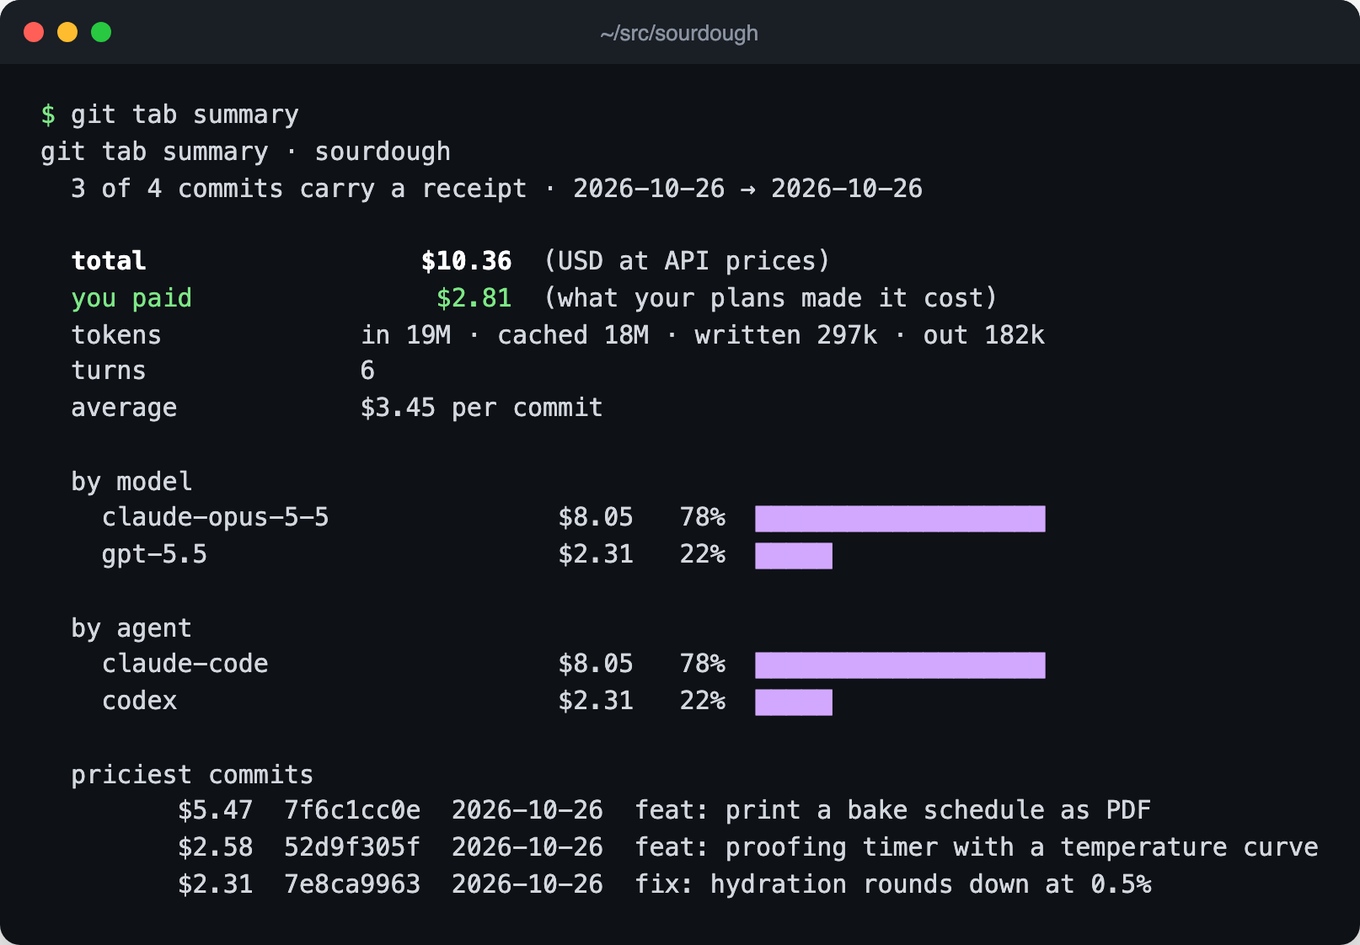
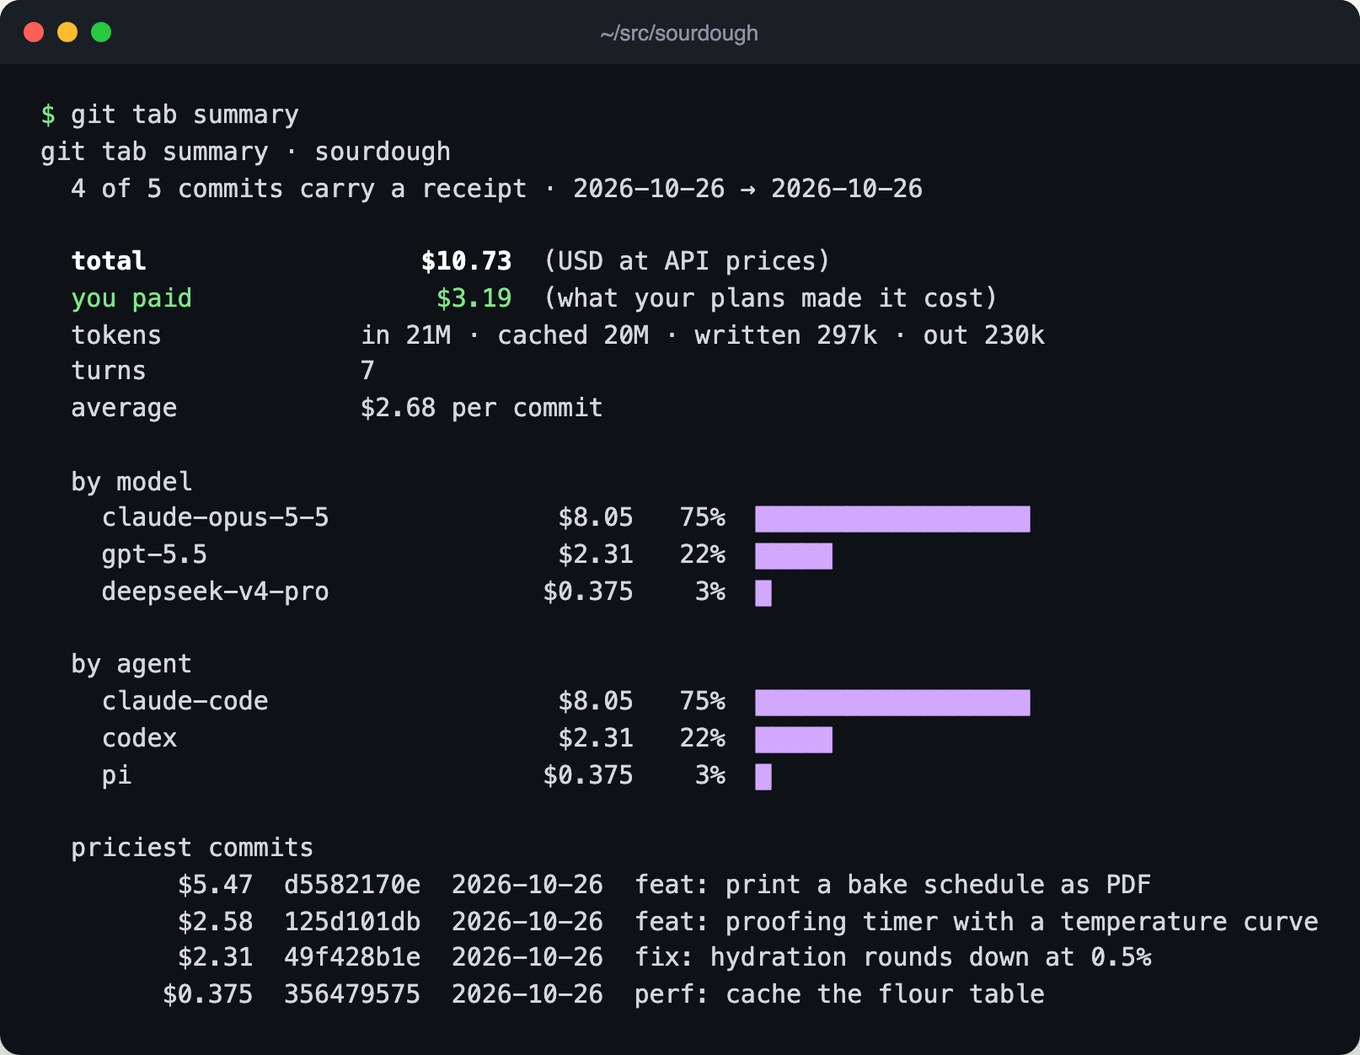
Match plans by the provider before the maker; settle only what a scan read
A deepseek key no longer pays for DeepSeek models that OpenCode Go
serves. When an agent's logs cannot be read, a commit settles only the
sessions it billed. doctor counts .db and .sqlite logs. The README
images now include a pi commit, and the timing claim is measured.

 ____________________________________
|                                    |
|         A I   R E C E I P T        |
|     git-tab · USD at API prices    |
|        2026-10-26 17:06 +08        |
|                                    |
| claude-opus-5-5              $2.41 |
|   in 6.4M  cached 6.3M             |
|   out 22k  written 88k  x27        |
| - - - - - - - - - - - - - - - - -  |
| SUBTOTAL                     $2.41 |
| PLAN DISCOUNT 94%           -$2.26 |
| YOU PAID                    $0.151 |
| 27 calls · 7m busy                 |
| ≈ 0.5 coffees / 0.7 pizza slices   |
| - - - - - - - - - - - - - - - - -  |
| TAB SO FAR · 8 commits      $49.34 |
|   paid                      $33.86 |
|                                    |
|   || |  || ||||| | |||   || |||||  |
|        THANK YOU, COME AGAIN       |
|____________________________________|
 \/\/\/\/\/\/\/\/\/\/\/\/\/\/\/\/\/\/

AI-Cost: $2.41 (api-equiv)
AI-Cost-Paid: $0.151 (6.25% of api-equiv)
AI-Tokens: in=6.4M cached=6.3M written=88k out=22k
AI-Model: claude-opus-5-5
AI-Agent: claude-code
AI-Session: claude-code/bc659162
AI-Cost-Schema: 1

diff --git a/e2e/agents_test.go b/e2e/agents_test.go
@@ -7,6 +7,7 @@ import (
 	"bytes"
 	"database/sql"
 	"encoding/json"
+	"fmt"
 	"os"
 	"path/filepath"
 	"strings"
@@ -436,4 +437,42 @@ func TestDsh(t *testing.T) {
 	wantTrailer(t, w, "AI-Cost", "$0.037 (api-equiv)")
 	wantTrailer(t, w, "AI-Model", "deepseek-v4-flash")
 	wantTrailer(t, w, "AI-Turns", "1")
+}
+
+// An agent whose logs cannot be read, such as a damaged or locked
+// database, loses nothing: the commit settles only what it did read, and
+// the rest goes on a receipt once the logs can be read again.
+func TestUnreadableLogs(t *testing.T) {
+	w := newWorld(t)
+	w.tab("install")
+	path := filepath.Join(w.home, ".local", "share", "opencode", "opencode.db")
+	os.MkdirAll(filepath.Dir(path), 0o755)
+	os.WriteFile(path, []byte("not a database"), 0o644)
+	now := time.Now()
+	w.assistant("S1", w.repo, now.Add(-2*time.Minute), cc{id: "m1", req: "r1", in: 10000, out: 1000}, 1)
+	w.commit(nil, "-m", "while OpenCode's database is damaged")
+	wantTrailer(t, w, "AI-Cost", "$0.060 (api-equiv)")
+
+	// Repaired, it holds a call made before that commit.
+	os.Remove(path)
+	db, err := sql.Open("sqlite", path)
+	if err != nil {
+		t.Fatal(err)
+	}
+	at := now.Add(-3 * time.Minute).UnixMilli()
+	data, _ := json.Marshal(map[string]any{"time": map[string]any{"created": at, "completed": at + 900},
+		"model":  map[string]any{"id": "claude-opus-5-5", "providerID": "anthropic"},
+		"tokens": map[string]any{"input": 10000, "output": 1000, "reasoning": 0, "cache": map[string]any{"read": 0, "write": 0}}})
+	for _, q := range []string{openCodeSchema,
+		`INSERT INTO session_v2 (id, project_id, slug, directory, version, time_created, time_updated) VALUES ('ses_1', 'global', 's', '` + w.repo + `', '2.1.4', ` + fmt.Sprint(at) + `, ` + fmt.Sprint(at) + `)`,
+		`INSERT INTO session_message (id, session_id, type, seq, time_created, time_updated, data) VALUES ('msg_1', 'ses_1', 'assistant', 1, ` + fmt.Sprint(at) + `, ` + fmt.Sprint(at) + `, '` + string(data) + `')`,
+	} {
+		if _, err := db.Exec(q); err != nil {
+			t.Fatalf("%s: %v", q, err)
+		}
+	}
+	db.Close()
+	w.commit(nil, "-m", "after it is repaired")
+	wantTrailer(t, w, "AI-Cost", "$0.060 (api-equiv)")
+	wantTrailer(t, w, "AI-Agent", "opencode")
 }

diff --git a/internal/plan/plan.go b/internal/plan/plan.go
@@ -24,6 +24,7 @@ package plan
 import (
 	"errors"
 	"fmt"
+	"slices"
 	"sort"
 	"strconv"
 	"strings"
@@ -180,27 +181,23 @@ func Selectors(v string) []string {
 }
 
 // Keys are what an event can be paid for under, most specific first. Who
-// bills a call (the provider, else the model's maker) comes before the
-// agent alone: a plan for claude-code does not pay for the DeepSeek calls
-// a gateway routes it to when a deepseek plan does.
+// bills a call comes before the agent alone: the provider the log names,
+// else the model's maker. A plan for claude-code does not pay for the
+// DeepSeek calls a gateway routes it to when a deepseek plan exists, and a
+// deepseek key does not pay for DeepSeek models OpenCode Go serves.
 func Keys(e agents.Event) []string {
-	maker := price.Maker(e.Model)
-	route := strings.ToLower(e.Provider)
+	payer := strings.ToLower(e.Provider)
+	if payer == "" {
+		payer = price.Maker(e.Model)
+	}
 	var out []string
 	add := func(s string) {
-		if s != "" && s != "/" && !strings.HasPrefix(s, "/") && !strings.HasSuffix(s, "/") {
-			for _, o := range out {
-				if o == s {
-					return
-				}
-			}
+		if s != "" && !strings.HasPrefix(s, "/") && !strings.HasSuffix(s, "/") && !slices.Contains(out, s) {
 			out = append(out, s)
 		}
 	}
-	add(e.Agent + "/" + route)
-	add(e.Agent + "/" + maker)
-	add(route)
-	add(maker)
+	add(e.Agent + "/" + payer)
+	add(payer)
 	add(e.Agent)
 	return out
 }

diff --git a/internal/stamp/stamp.go b/internal/stamp/stamp.go
@@ -169,6 +169,10 @@ type Window struct {
 	// such commit: a session whose log was copied here, by a handoff or a
 	// teleport, is already settled up to then.
 	Foreign map[string]time.Time
+	// Partial says an agent's logs could not be read (a locked database):
+	// the commit then settles only the threads it billed, and the unread
+	// usage waits for a later one.
+	Partial bool
 }
 
 // key names what the ledger settles separately: a thread, so that a
@@ -511,7 +515,7 @@ func (h *hook) stamp(p *ledger.Pending, msg string) (string, bool) {
 	}
 	// Work trees share the ledger, and a commit in one sees none of the
 	// usage in the others: it settles only the threads it billed.
-	if w.Scope != nil || h.repo.Linked() {
+	if w.Scope != nil || w.Partial || h.repo.Linked() {
 		p.Threads = threads
 	}
 	h.logf("stamped %s: calls=%d turns=%d template=%s scope=%s", render.USD(b.Cost), b.Requests, b.Turns, h.s.Template, w.Scope)
@@ -549,6 +553,7 @@ func (h *hook) bill(amend bool, scope *Scope) (*bill.Bill, Window, []string, err
 	for _, e := range errs {
 		h.logf("%v", e)
 	}
+	w.Partial = len(errs) > 0
 	cat := price.Load()
 	h.logf("%d events, prices %s %s, %d plans", len(events), cat.From, cat.Fetched.Format("2006-01-02"), len(h.s.Plans.Plans))
 	return bill.Build(events, cat, h.s.Plans, now), w, threads, nil

diff --git a/internal/cli/cli.go b/internal/cli/cli.go
@@ -331,7 +331,7 @@ func doctorCmd() int {
 		for _, root := range ad.Roots() {
 			n, newest := 0, time.Time{}
 			filepath.WalkDir(root, func(path string, d os.DirEntry, err error) error {
-				if err == nil && !d.IsDir() && (strings.HasSuffix(path, ".jsonl") || strings.HasSuffix(path, ".jsonl.zst")) {
+				if err == nil && !d.IsDir() && isLog(d.Name()) {
 					n++
 					if info, err := d.Info(); err == nil && info.ModTime().After(newest) {
 						newest = info.ModTime()
@@ -375,6 +375,16 @@ func doctorCmd() int {
 		}
 	}
 	return 0
+}
+
+// isLog says a file is one of the session logs or databases agents keep.
+func isLog(name string) bool {
+	for _, suf := range []string{".jsonl", ".jsonl.zst", ".jsonl.zstd", ".db", ".sqlite"} {
+		if strings.HasSuffix(name, suf) {
+			return true
+		}
+	}
+	return false
 }
 
 func count(n int, one string) string {

diff --git a/internal/agents/agents.go b/internal/agents/agents.go
@@ -1,8 +1,9 @@
 // Package agents reads coding-agent session logs into usage events.
 //
 // Each agent is an Adapter registered from its own file (claude.go,
-// codex.go). Supporting another agent means adding one file whose Adapter
-// turns that agent's local logs into Events; nothing else has to change.
+// codex.go, pi.go, opencode.go, dsh.go). Supporting another agent means
+// adding one file whose Adapter turns that agent's local logs into Events;
+// nothing else has to change.
 package agents
 
 import (

diff --git a/README.md b/README.md
@@ -7,11 +7,11 @@ Tokens, models and cost from Claude Code, Codex, pi, OpenCode and DeepSeek Harne
 
 <p align="center">
 <a href="LICENSE"><img alt="MIT license" src="https://img.shields.io/badge/license-MIT-blue"></a>
-<img alt="Go 1.25+" src="https://img.shields.io/badge/go-1.25%2B-00ADD8">
+<img alt="Go 1.26+" src="https://img.shields.io/badge/go-1.26%2B-00ADD8">
 <img alt="Git 2.54+ for one-command setup" src="https://img.shields.io/badge/git-2.54%2B-F05032">
 </p>
 
-<p align="center"><img src="docs/images/receipt-en.png" width="520" alt="git log -1 on a commit made by Claude Code: the message carries an AI receipt. claude-opus-5-5 cost $5.47 at API prices over 64 calls; on a $125 Claude Max plan worth $2,000 a month the user paid $0.342; the branch's tab is $10.36 over 3 commits. Below the receipt are AI-Cost, AI-Cost-Paid, AI-Tokens, AI-Model, AI-Agent, AI-Turns and AI-Session trailers."></p>
+<p align="center"><img src="docs/images/receipt-en.png" width="520" alt="git log -1 on a commit made by Claude Code: the message carries an AI receipt. claude-opus-5-5 cost $5.47 at API prices over 64 calls; on a $125 Claude Max plan worth $2,000 a month the user paid $0.342; the branch's tab is $10.73 over 4 commits, $3.19 paid. Below the receipt are AI-Cost, AI-Cost-Paid, AI-Tokens, AI-Model, AI-Agent, AI-Turns and AI-Session trailers."></p>
 
 ## Install
 
@@ -29,7 +29,7 @@ Uninstall with `curl -fsSL https://raw.githubusercontent.com/fish2lab/git-tab/ma
 
 ## What it does
 
-- **Bills each commit, never blocks one.** At commit time git-tab reads the agents' logs on your machine and prices every request since the last receipt at [models.dev](https://models.dev) rates: cache reads and writes, long-context tiers, Claude's fast mode, DeepSeek's peak hours. The hooks always exit 0 and add about 50 ms to a commit.
+- **Bills each commit, never blocks one.** At commit time git-tab reads the agents' logs on your machine and prices every request since the last receipt at [models.dev](https://models.dev) rates: cache reads and writes, long-context tiers, Claude's fast mode, DeepSeek's peak hours. The hooks always exit 0 and add 50 to 150 ms to a commit.
 - **Shows what you actually paid.** Tell it once that Claude Max costs you $125 a month for about $2,000 of API-priced usage, and Claude Code commits show 6.25% of the API price: SUBTOTAL, PLAN DISCOUNT, YOU PAID. A DeepSeek key at list price, a reseller at half price, a subscription measured from your own logs: [plans](docs/reference.md#plans-what-you-actually-pay).
 - **Bills the right session.** When an agent commits, only its own session is on the receipt; parallel agents, work trees and amends each get their own share. Commits you type yourself pick up every session in the repository.
 - **Keeps a running tab.** Each receipt ends with the total of every receipt in the branch's history, commits from teammates and other machines included.
@@ -38,7 +38,7 @@ Uninstall with `curl -fsSL https://raw.githubusercontent.com/fish2lab/git-tab/ma
 
 ## Read the bill
 
-<p align="center"><img src="docs/images/summary.png" width="560" alt="git tab summary for a project: 3 of 4 commits carry a receipt, $10.36 at API prices, $2.81 paid, split by model (claude-opus-5-5 78%, gpt-5.5 22%) and by agent (claude-code, codex), with the priciest commits listed."></p>
+<p align="center"><img src="docs/images/summary.png" width="560" alt="git tab summary for a project: 4 of 5 commits carry a receipt, $10.73 at API prices, $3.19 paid, split by model (claude-opus-5-5 75%, gpt-5.5 22%, deepseek-v4-pro 3%) and by agent (claude-code, codex, pi), with the priciest commits listed."></p>
 
 | command | |
 |---|---|
@@ -73,7 +73,7 @@ Prefer one line? `git config --global tab.template minimal`. Every format, setti
 | Codex | `CODEX_THREAD_ID` |
 | pi | `PI_SESSION_ID` |
 | OpenCode | `OPENCODE_SESSION_ID` |
-| DeepSeek Harness | `GIT_TAB_SESSION=dsh:<id>`, or the working directory |
+| DeepSeek Harness, omp, ZCode | `GIT_TAB_SESSION=<agent>:<id>`, or the working directory |
 
 Any other agent is one Go file: [teach it another agent](docs/reference.md#teach-it-another-agent).
 
@@ -85,7 +85,7 @@ Any other agent is one Go file: [teach it another agent](docs/reference.md#teach
 
 **I pay a flat subscription. Is the API price meaningful?** It is what the same work would cost without one. With a [plan](docs/reference.md#plans-what-you-actually-pay), each receipt also shows your share of the subscription.
 
-**Will it slow down or break my commits?** A commit takes about 50 ms longer. A hook that fails or runs past 4 seconds is dropped and the commit goes through without a receipt.
+**Will it slow down or break my commits?** A commit takes 50 to 150 ms longer, depending on how long the session's log is. A hook that fails or runs past 4 seconds is dropped and the commit goes through without a receipt.
 
 **Does anything leave my machine?** Only the weekly download of the public price table.
 

diff --git a/README.zh-CN.md b/README.zh-CN.md
@@ -7,11 +7,11 @@
 
 <p align="center">
 <a href="LICENSE"><img alt="MIT license" src="https://img.shields.io/badge/license-MIT-blue"></a>
-<img alt="Go 1.25+" src="https://img.shields.io/badge/go-1.25%2B-00ADD8">
+<img alt="Go 1.26+" src="https://img.shields.io/badge/go-1.26%2B-00ADD8">
 <img alt="一条命令装好需要 Git 2.54+" src="https://img.shields.io/badge/git-2.54%2B-F05032">
 </p>
 
-<p align="center"><img src="docs/images/receipt-zh.png" width="520" alt="git log -1 显示一个由 Claude Code 提交的 commit，message 里带着 AI 小票：claude-opus-5-5 按 API 官价 64 次调用共 $5.47；用户的 Claude Max 每月 $125、折合 API 用量 $2,000，实付 $0.342；这个分支累计 3 个 commit 共 $10.36。小票下方是 AI-Cost、AI-Cost-Paid、AI-Tokens、AI-Model、AI-Agent、AI-Turns、AI-Session 等 trailer。"></p>
+<p align="center"><img src="docs/images/receipt-zh.png" width="520" alt="git log -1 显示一个由 Claude Code 提交的 commit，message 里带着 AI 小票：claude-opus-5-5 按 API 官价 64 次调用共 $5.47；用户的 Claude Max 每月 $125、折合 API 用量 $2,000，实付 $0.342；这个分支累计 4 个 commit 共 $10.73，实付 $3.19。小票下方是 AI-Cost、AI-Cost-Paid、AI-Tokens、AI-Model、AI-Agent、AI-Turns、AI-Session 等 trailer。"></p>
 
 ## 安装
 
@@ -29,7 +29,7 @@ curl -fsSL https://raw.githubusercontent.com/fish2lab/git-tab/main/install.sh | 
 
 ## 它做什么
 
-- **每个 commit 记账，从不拦 commit。** 提交时读取本机 agent 日志，把上一张小票之后的每次请求按 [models.dev](https://models.dev) 的价格逐条计价：缓存读写分开算，长上下文分档、Claude 快速模式、DeepSeek 高峰时段双倍都算进去。钩子永远返回 0，每次 commit 多花约 50 毫秒。
+- **每个 commit 记账，从不拦 commit。** 提交时读取本机 agent 日志，把上一张小票之后的每次请求按 [models.dev](https://models.dev) 的价格逐条计价：缓存读写分开算，长上下文分档、Claude 快速模式、DeepSeek 高峰时段双倍都算进去。钩子永远返回 0，每次 commit 多花 50 到 150 毫秒。
 - **算出你实际付了多少。** 告诉它一次「Claude Max 每月 $125，大约用掉 $2,000 的 API 等价额度」，之后 Claude Code 的 commit 就按 API 价的 6.25% 记实付，小票上列出 SUBTOTAL、PLAN DISCOUNT、YOU PAID 三行。DeepSeek 官方 key 按原价、中转站打五折、订阅额度按本机日志自动测算，都可以登记，见[订阅与实付](docs/reference.md#plans-what-you-actually-pay)。
 - **账记在对的会话上。** agent 自己 commit 时，小票只算它这个会话；并行的多个 agent、多个 worktree、`--amend` 各算各的。你手动 commit 时，仓库里所有会话的用量合在一张小票上。
 - **小票底部有累计总额。** 每张小票最后一行是当前分支历史里所有小票的合计，队友和其他机器上的 commit 也算在内。
@@ -38,7 +38,7 @@ curl -fsSL https://raw.githubusercontent.com/fish2lab/git-tab/main/install.sh | 
 
 ## 看账单
 
-<p align="center"><img src="docs/images/summary.png" width="560" alt="git tab summary：4 个 commit 中 3 个带小票，按 API 价共 $10.36，实付 $2.81，按模型（claude-opus-5-5 78%、gpt-5.5 22%）和 agent（claude-code、codex）拆分，并列出最贵的几个 commit。"></p>
+<p align="center"><img src="docs/images/summary.png" width="560" alt="git tab summary：5 个 commit 中 4 个带小票，按 API 价共 $10.73，实付 $3.19，按模型（claude-opus-5-5 75%、gpt-5.5 22%、deepseek-v4-pro 3%）和 agent（claude-code、codex、pi）拆分，并列出最贵的几个 commit。"></p>
 
 | 命令 | |
 |---|---|
@@ -73,7 +73,7 @@ AI-Cost-Schema: 1
 | Codex | `CODEX_THREAD_ID` |
 | pi | `PI_SESSION_ID` |
 | OpenCode | `OPENCODE_SESSION_ID` |
-| DeepSeek Harness | `GIT_TAB_SESSION=dsh:<id>`，或按工作目录 |
+| DeepSeek Harness、omp、ZCode | `GIT_TAB_SESSION=<agent>:<id>`，或按工作目录 |
 
 再接一个 agent 只需要写一个 Go 文件，见[接入新 agent](docs/reference.md#teach-it-another-agent)。
 
@@ -85,7 +85,7 @@ AI-Cost-Schema: 1
 
 **我用的是包月订阅，API 价还有意义吗？** API 价是同样的活不订阅要花的钱。登记了[订阅](docs/reference.md#plans-what-you-actually-pay)之后，每张小票还会写出你这份订阅分摊下来的实付。
 
-**会拖慢或者搞坏我的 commit 吗？** 每次 commit 多约 50 毫秒。钩子出错或者跑超过 4 秒就会被放弃，commit 照常完成，只是没有小票。
+**会拖慢或者搞坏我的 commit 吗？** 每次 commit 多 50 到 150 毫秒，会话日志越长越慢。钩子出错或者跑超过 4 秒就会被放弃，commit 照常完成，只是没有小票。
 
 **会上传什么吗？** 只有每周下载一次公开的价格表。
 

diff --git a/docs/reference.md b/docs/reference.md
@@ -41,7 +41,7 @@ git tab plan                                                  # your plans, and 
 ```
 
 - **Terms**: `125/mo`, `1500/yr` (a subscription), `api` (list price), `x0.5` or `50%` (a share of list price).
-- **What it pays for**: an agent (`claude-code`), a provider the agent called (`deepseek`, `openrouter`, `opencode-go`) or the model's maker, or an agent and a provider joined by a slash (`pi/anthropic`). The most specific match wins, and a provider or maker match beats an agent-only one, so a `claude-code` subscription does not pay for DeepSeek calls a gateway routes Claude Code to when a `deepseek` plan exists.
+- **What it pays for**: an agent (`claude-code`), whoever bills the call (`deepseek`, `openrouter`, `opencode-go`), or both joined by a slash (`pi/anthropic`). Whoever bills is the provider the agent's log names, else the model's maker. The most specific match wins, and a match on who bills beats an agent-only one: a `claude-code` subscription does not pay for the DeepSeek calls a gateway routes Claude Code to when a `deepseek` plan exists, and a `deepseek` key does not pay for DeepSeek models served by OpenCode Go.
 - **A subscription's share** is its monthly fee over what a month of its usage is worth at API prices: $125 / $2,000 = 6.25%. Without `--worth`, git-tab measures the worth from the last 30 days of this machine's logs (scaled up when the logs are younger) and measures again weekly, in the background, after a commit. Usage on other devices and on claude.ai is invisible to it, so a stated worth is usually closer.
 - Plans live in your global git config (`[tab-plan "claude-max"]`). `GIT_TAB_PLANS`, printed by `git tab plan export`, carries them to a machine without that config.
 
@@ -67,6 +67,7 @@ A receipt with a plan adds `AI-Cost-Paid` and the lines SUBTOTAL, PLAN DISCOUNT 
 
 ## It stays out of the way
 
+- A commit takes about 50 ms longer in a new repository and about 125 ms when the committing session's log is 14 MB (MacBook Air M5, Git 2.56).
 - The hooks always exit 0. A panic is caught, and a hook still busy after `tab.timeout` (4 s) is left behind; the commit goes on without a receipt.
 - A deleted binary makes the hooks do nothing.
 - An empty message still aborts the commit. In the editor, the receipt is added after you save, and only if you wrote something.
@@ -111,8 +112,12 @@ Schema 1. Every line is a git trailer, so `git interpret-trailers` and `git log 
 | Claude Code | `~/.claude/projects`, `~/.config/claude/projects`, `$CLAUDE_CONFIG_DIR` | `CLAUDE_CODE_SESSION_ID` |
 | Codex | `~/.codex/sessions`, `~/.codex/archived_sessions`, `$CODEX_HOME` (`.jsonl`, `.jsonl.zst`) | `CODEX_THREAD_ID` |
 | pi | `~/.pi/agent/sessions`, `$PI_CODING_AGENT_DIR`, `$PI_CODING_AGENT_SESSION_DIR` | `PI_SESSION_ID` |
-| OpenCode | `~/.local/share/opencode/opencode.db` | `OPENCODE_SESSION_ID` |
-| DeepSeek Harness | DeepSeek Harness's local session store | `GIT_TAB_SESSION=dsh:<id>` |
+| omp (oh-my-pi) | `~/.omp/agent/sessions`, `~/.omp/profiles/*/agent/sessions` | set `GIT_TAB_SESSION=omp:<id>` |
+| OpenCode | `~/.local/share/opencode/opencode.db` (`$XDG_DATA_HOME`, `$OPENCODE_DB`), and its older JSON storage | `OPENCODE_SESSION_ID` |
+| ZCode | `~/.zcode/cli/db/db.sqlite` | set `GIT_TAB_SESSION=zcode:<id>` |
+| DeepSeek Harness | `~/.dsh/sessions`, `$DSH_HOME` (`.jsonl`, `.jsonl.zstd`) | set `GIT_TAB_SESSION=dsh:<id>` |
+
+Without a session id, a commit bills every session whose working directory is in the repository. Databases are opened read-only and left untouched. When an agent's logs cannot be read, say a locked database, the commit settles only the sessions it did read; the rest waits for a later commit.
 
 git-tab only reads them. Nothing leaves your machine except the weekly price download.
 

diff --git a/docs/design.md b/docs/design.md
@@ -41,7 +41,7 @@ git commit
 
 跨机器：账本只在本机，小票随 commit 走。每张小票用 `AI-Session: agent/会话 id 末 8 位` 写明结算了哪些会话。stamp 时读一遍 lookback 窗口内的 `git log`，凡是不在本机账本里的 commit（别的机器、云端容器打的戳）所点名的会话，把它在那个 commit 作者时间之前的用量视为已结算。这样 `claude --teleport` 把云端对话拉回本地、或者 instabox 之类工具把对话搬到另一台机器时，同一段用量不会记两次（`TestTwoMachines` 覆盖）。用作者时间是因为 rebase 会改提交时间、不改作者时间。
 
-实付：`tab-plan.<名>.*`（全局 git config，或云端用的 `GIT_TAB_PLANS` 环境变量）登记「什么由谁付、按什么比例」。按 agent/路由 → agent/厂商 → 路由 → 厂商 → agent 的顺序匹配；厂商排在单独的 agent 前面，是因为经 magpie 之类网关把 Claude Code 转给 DeepSeek 时，这部分不该算进 Claude Max。订阅的比例 = 月费 ÷ 一个月用量的 API 价：用户自报 `--worth` 优先，没有就从本机 30 天日志测，日志不足 30 天按比例放大，每周在后台重测一次。本机日志看不到 claude.ai 网页端和其他设备上的用量，所以自报通常更准。
+实付：`tab-plan.<名>.*`（全局 git config，或云端用的 `GIT_TAB_PLANS` 环境变量）登记「什么由谁付、按什么比例」。「谁收钱」取日志里写明的服务商，没写才取模型厂商；按 agent/谁收钱 → 谁收钱 → agent 的顺序匹配。谁收钱排在单独的 agent 前面，是因为经 magpie 之类网关把 Claude Code 转给 DeepSeek 时，这部分不该算进 Claude Max；日志写明服务商时不再看厂商，是因为 OpenCode Go 卖的 DeepSeek 模型不该算到 DeepSeek 官方 key 上。订阅的比例 = 月费 ÷ 一个月用量的 API 价：用户自报 `--worth` 优先，没有就从本机 30 天日志测，日志不足 30 天按比例放大，每周在后台重测一次。本机日志看不到 claude.ai 网页端和其他设备上的用量，所以自报通常更准。
 
 累计账单：receipt 模板最后一行是当前分支历史里所有小票之和，从 `git log` 的 trailer 里加，所以别的机器、队友的 commit 也算在内。结果按 HEAD 缓存在账本里，下一个 commit 直接在缓存上加一笔，不用重新遍历历史（本机最大的仓库 2472 个 commit，遍历一次约 60ms）。
 

diff --git a/docs/install.md b/docs/install.md
@@ -10,7 +10,7 @@ The script puts one binary in `~/.local/bin` (`GIT_TAB_BIN_DIR` picks another pl
 
 On an older git the script says so, and you run `git tab install` inside each repository instead. That writes hook files into the repository's hooks directory; a hook that was already there is kept and runs after git-tab's.
 
-With Go: `go install github.com/fish2lab/git-tab@latest && git tab install --global`.
+With Go 1.26 or later: `go install github.com/fish2lab/git-tab@latest && git tab install --global`.
 
 On a machine whose locale is Chinese, the installer also sets `tab.snacks` so receipts count money in 杯咖啡 and 个煎饼果子. Everywhere else it is coffees and pizza slices.
 
